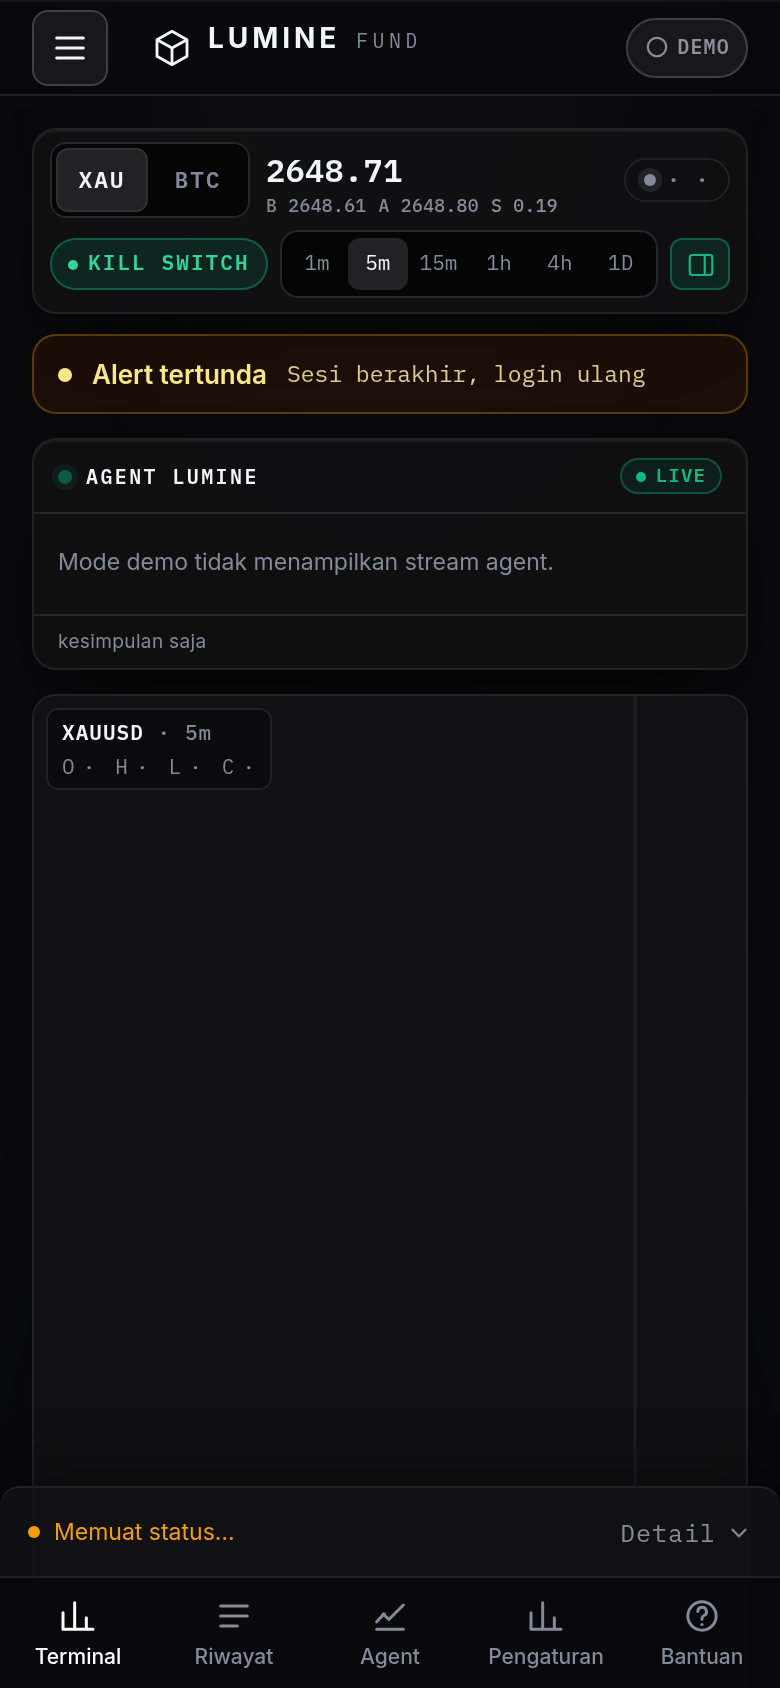
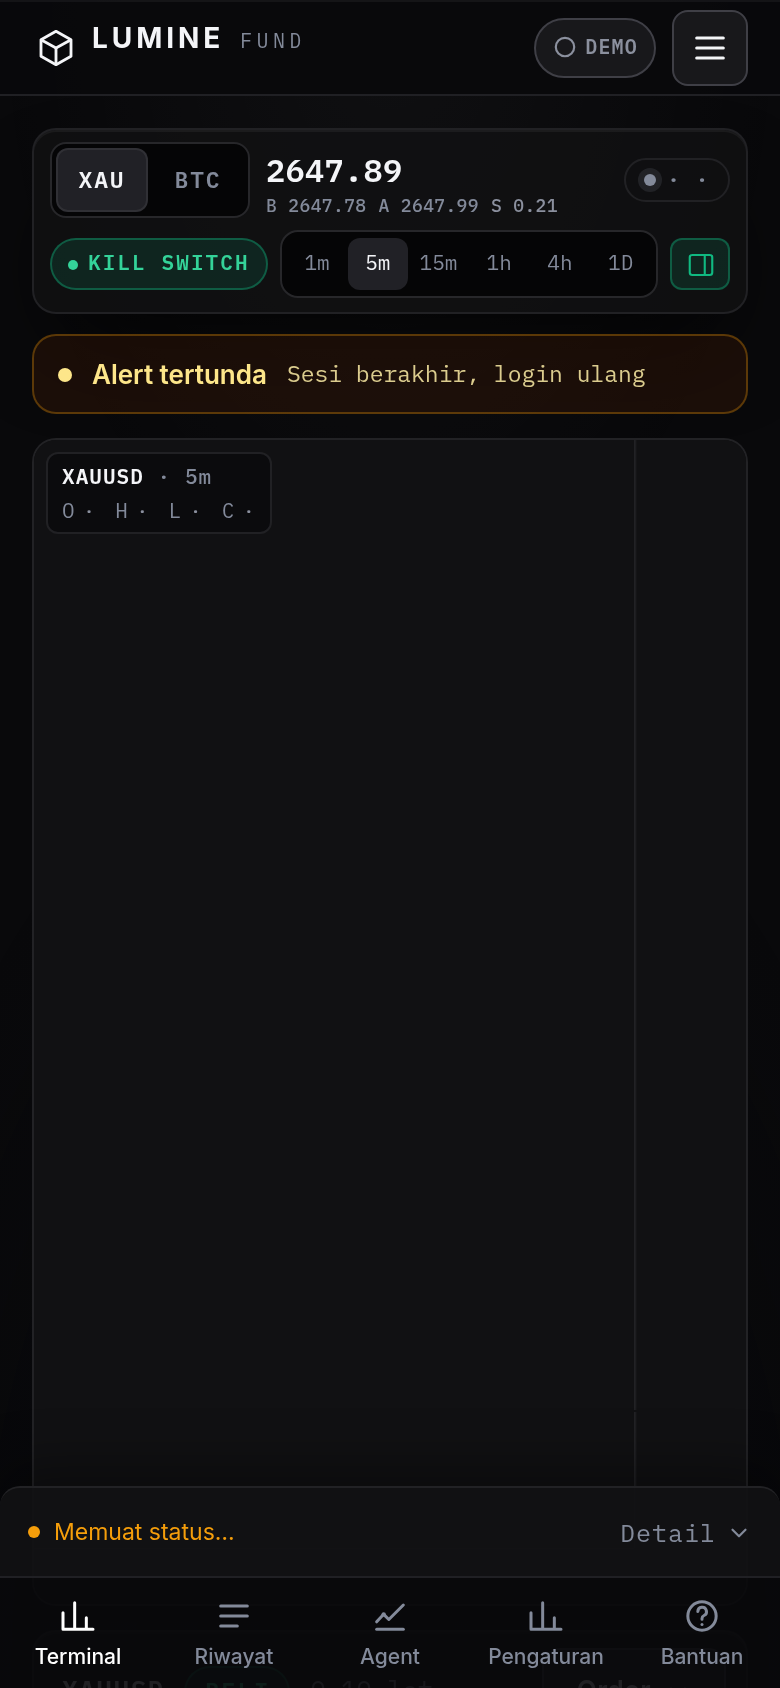
fix(terminal): urutan mobile chart->order->monitor->ringkasan->agent, hamburger di kanan

diff --git a/frontend/src/styles/terminal.css b/frontend/src/styles/terminal.css
@@ -1897,10 +1897,17 @@
     display: contents;
   }
 
-  .term-root .term-chart-card { order: 1; }
-  /* Dock (posisi/pending) selalu di bawah chart: chart dulu yang penuh. */
-  .term-root .term-col-main > .dock { order: 2; }
-  .term-root .term-order { order: 3; }
+  /* Urutan mobile/tablet: chart, order baru, monitor order, ringkasan,
+     chat agent. Kedua kolom di-flatten (display:contents) supaya semua kartu
+     jadi item grid yang sama dan urutannya bisa ditentukan di satu tempat. */
+  .term-root .term-col-main,
+  .term-root .term-col-side {
+    display: contents;
+  }
+
+  /* Urutan final diatur blok (max-width:1023px) di akhir file: saat kedua
+     kolom di-flatten, kartu bukan lagi anak DOM .term-grid sehingga selector
+     '>' tidak pernah cocok. */
   .term-root .term-sum { order: 3; }
   .term-root .term-positions { order: 4; }
 
@@ -2561,4 +2568,21 @@
   .term-root .as-body {
     max-height: 240px;
   }
+}
+
+/* ── Urutan kartu tablet & mobile ─────────────────────────────────────────
+   Chart -> Order baru -> Monitor order -> Ringkasan -> Chat agent.
+   Kedua kolom di-flatten supaya semua kartu jadi item grid yang sama; karena
+   kartu bukan anak DOM .term-grid, urutan memakai selector turunan. */
+@media (max-width: 1023px) {
+  .term-root .term-col-main,
+  .term-root .term-col-side {
+    display: contents;
+  }
+
+  .term-root .term-grid .term-chart-card { order: 1; }
+  .term-root .term-grid .term-order { order: 2; }
+  .term-root .term-grid .dock { order: 3; }
+  .term-root .term-grid .term-sum { order: 4; }
+  .term-root .term-grid .agent-stream { order: 5; }
 }

diff --git a/frontend/src/styles/global.css b/frontend/src/styles/global.css
@@ -1004,9 +1004,24 @@ table.data tbody tr:hover {
     display: none;
   }
 
-  /* Nav mobile: hamburger menggantikan topnav; drawer memuat nav + Keluar. */
+  /* Nav mobile: hamburger menggantikan topnav; drawer memuat nav + Keluar.
+     Tombol dan drawer sama-sama di kanan supaya arah buka-tutup konsisten. */
   .nav-burger {
     display: inline-flex;
+    order: 3;
+  }
+
+  .topbar-inner .brand {
+    order: 1;
+  }
+
+  .topbar-inner .topbar-side {
+    order: 2;
+    margin-left: auto;
+  }
+
+  .topbar-inner {
+    gap: 8px;
   }
 
   /* topbar muat di 390px: harga live disembunyikan (Dashboard sudah
